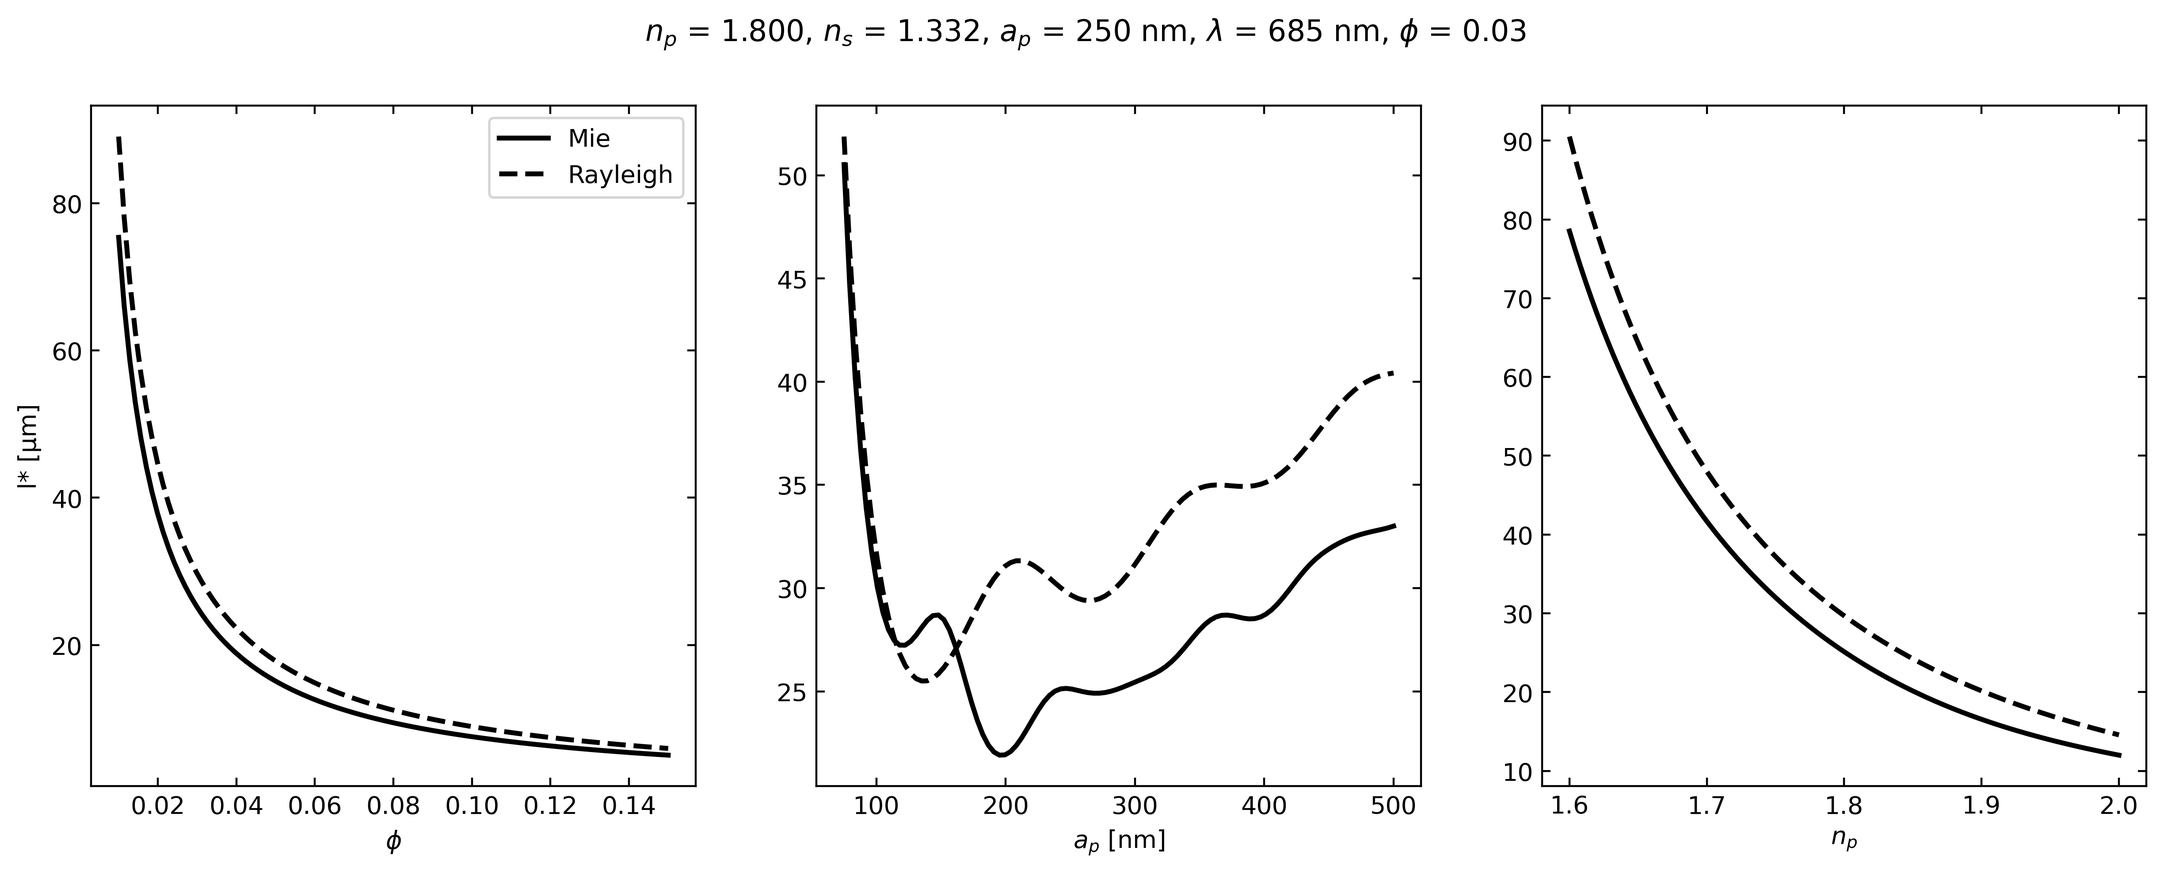
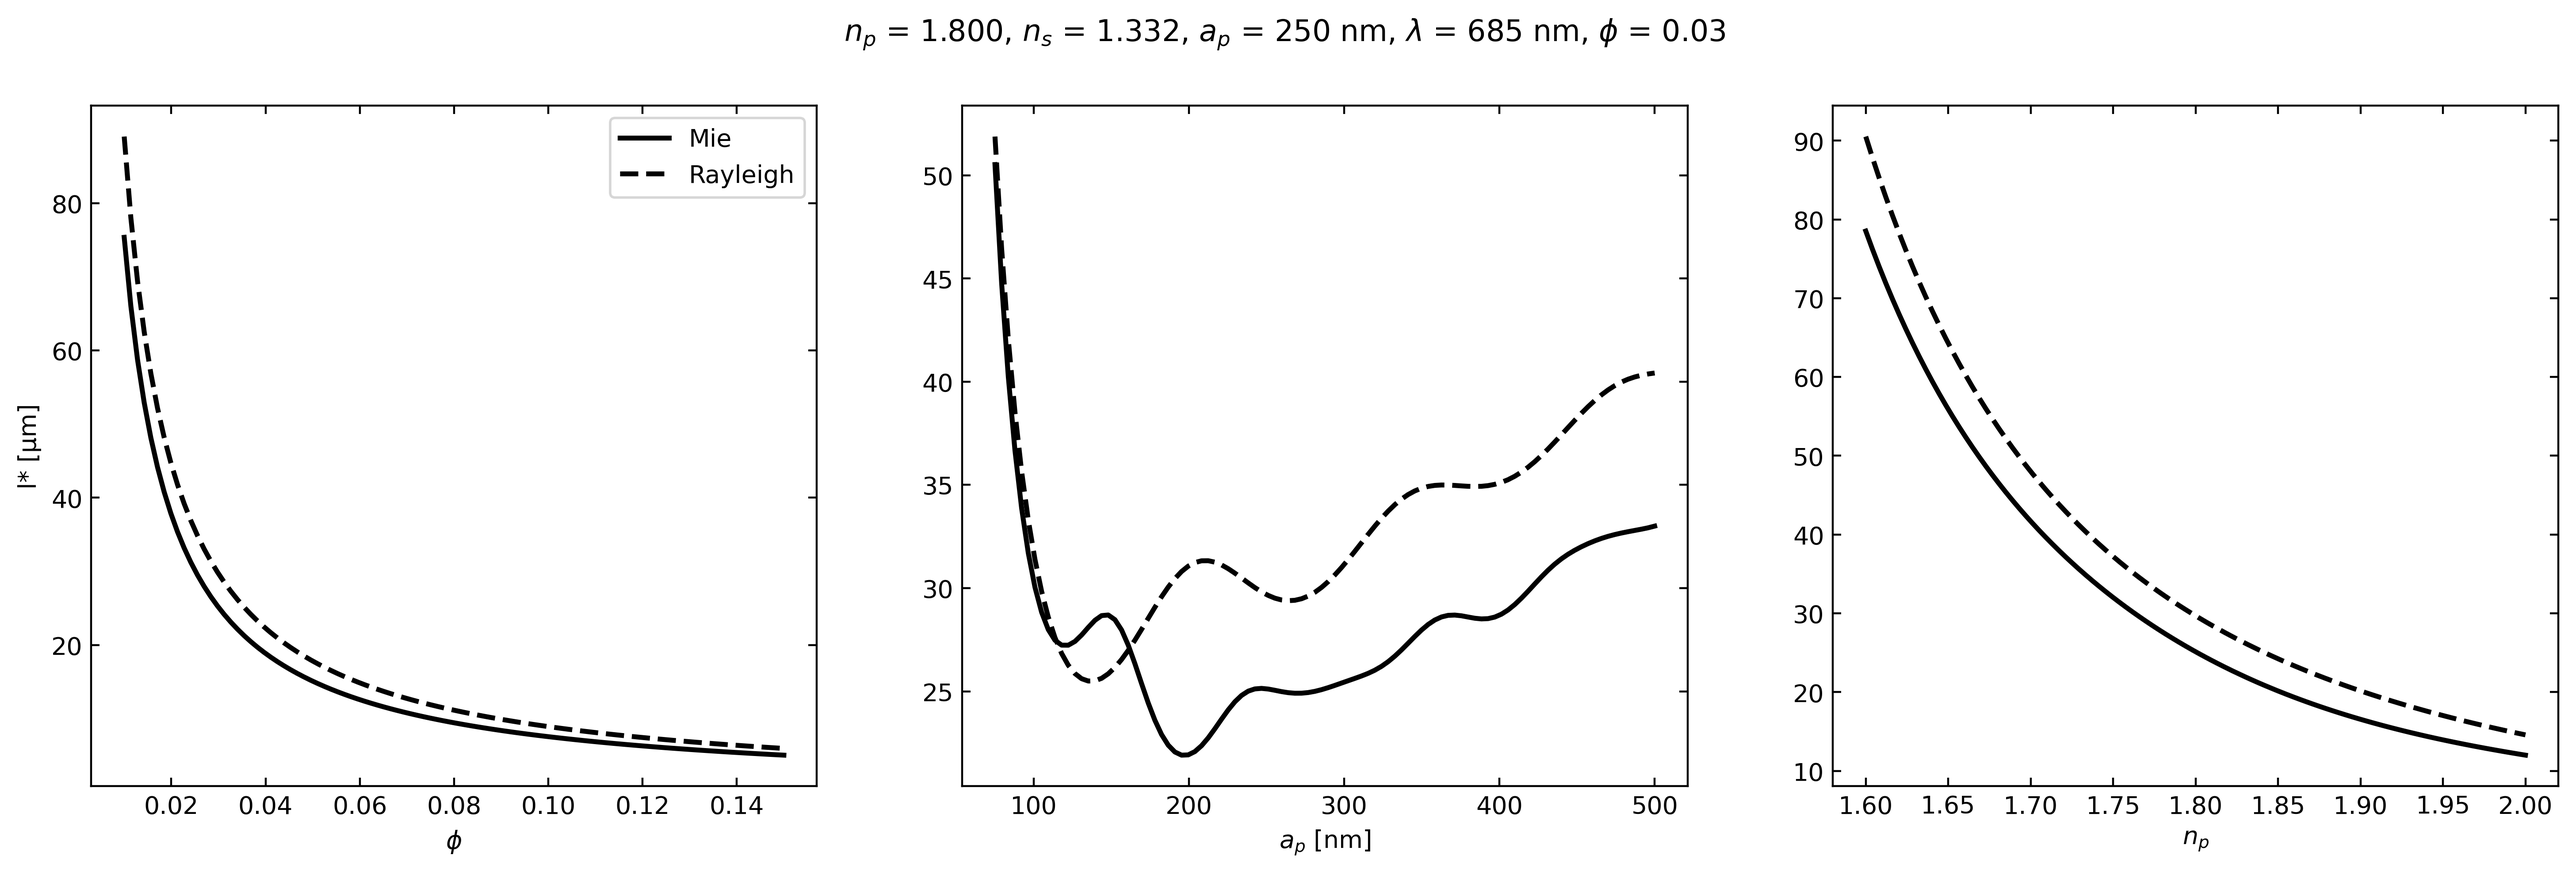
Figure Resize
Resizes mie_vs_rayleigh.py figure.

diff --git a/Examples/mie_vs_rayleigh.py b/Examples/mie_vs_rayleigh.py
@@ -57,7 +57,7 @@ ax2.set(xlabel=r'$a_p$ [nm]')
 ax2.tick_params(direction='in', bottom=True, top=True, left=True, right=True)
 ax3.set(xlabel=r'$n_p$')
 ax3.tick_params(direction='in', bottom=True, top=True, left=True, right=True)
-fig.set_size_inches(15, 5)
+fig.set_size_inches(18, 5)
 # title with default parameters listed
 plt.suptitle(r'$n_p$ = %.3f, $n_s$ = %.3f, $a_p$ = %i nm, $\lambda$ = %i nm, $\phi$ = %.2f' % (n_p, n_s, a_p*1e9, lambda_vac*1e9, phi))
 
